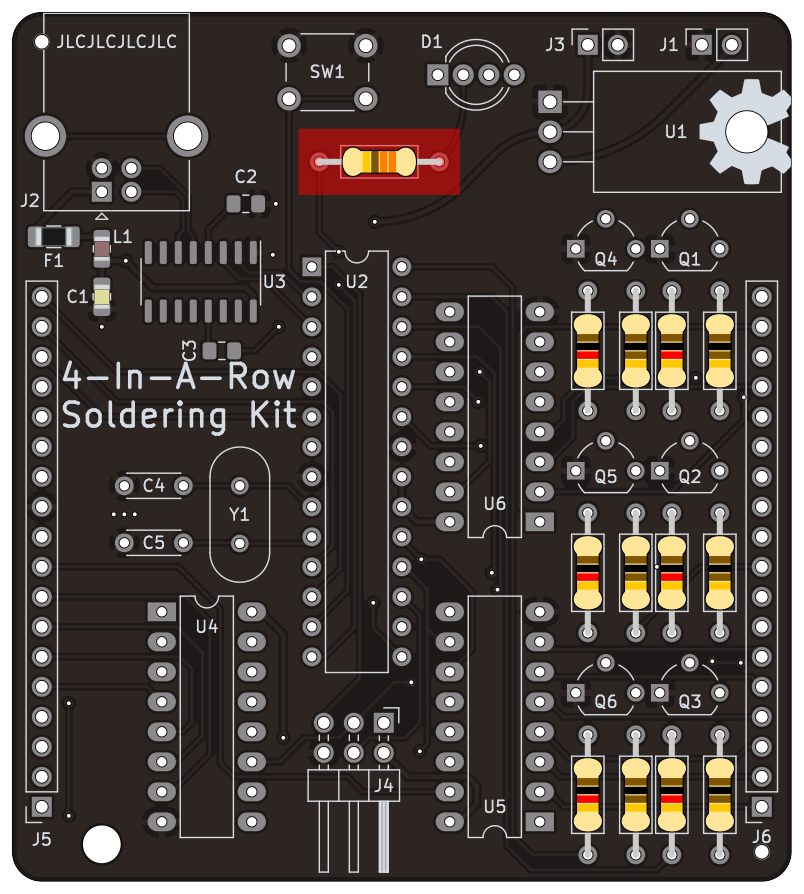
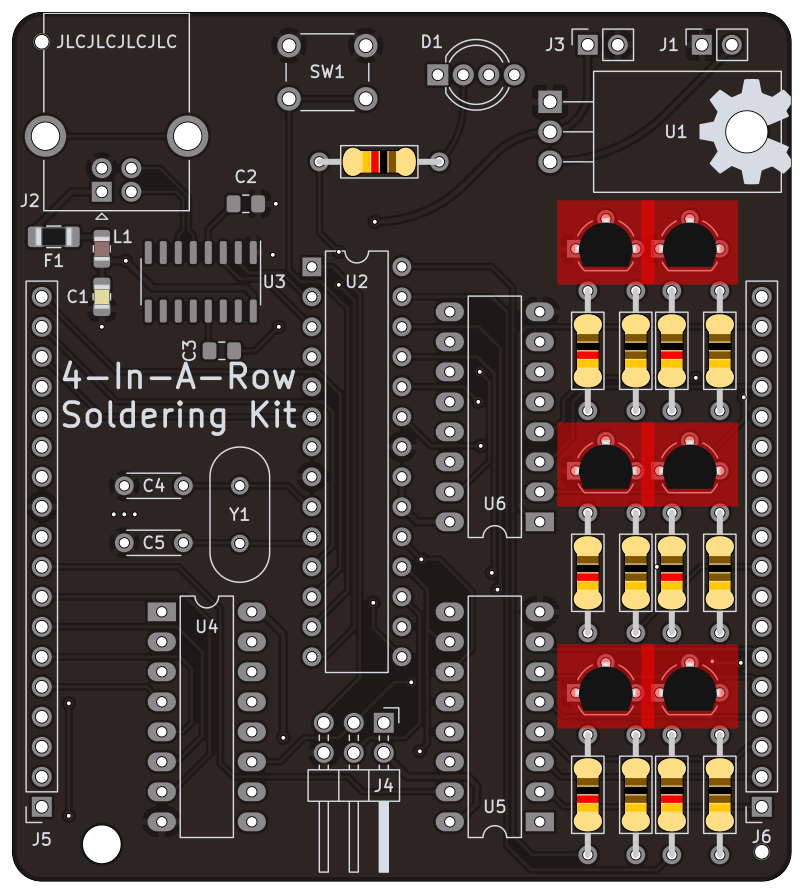
4-in-a-row update: - removed 330ohm step as that resistor is really a 1k - fixed USB instruction to highlight it - updated bom so the regulator's voltage is not conflicting (there was a 7-12v and 7-15v written in two spots)

diff --git a/kits/4_in_a_row/step_main.php b/kits/4_in_a_row/step_main.php
@@ -15,7 +15,7 @@
         <div class="content_md">
             <h1>Soldering Guide - Main Driver</h1>
             <p>This page guides you through soldering a 4-in-a-row kit's main board, step by step.</p>
-            <p>These steps are my recommendation, but feel free to deviate if a certain order is easier for you!</p>
+            <p>These steps are my recommendation, but feel free to deviate of a certain order is easier for you!</p>
         </div>
 
         <div id="step_step">
@@ -33,42 +33,38 @@
             </figure>
             <figure class="figure">
                 <img src="step_drawings/populating_4.png" class="figure-img img-fluid rounded">
-                <figcaption class="figure-caption"> Then we solder The top 330Ω resistor</figcaption>
-            </figure>
-            <figure class="figure">
-                <img src="step_drawings/populating_5.png" class="figure-img img-fluid rounded">
                 <figcaption class="figure-caption"> Then we populate all 2N3904 transistors</figcaption>
             </figure>
             <figure class="figure">
-                <img src="step_drawings/populating_6.png" class="figure-img img-fluid rounded">
+                <img src="step_drawings/populating_5.png" class="figure-img img-fluid rounded">
                 <figcaption class="figure-caption"> We populate the 12pF capacitors for the crystal</figcaption>
             </figure>
             <figure class="figure">
-                <img src="step_drawings/populating_7.png" class="figure-img img-fluid rounded">
+                <img src="step_drawings/populating_6.png" class="figure-img img-fluid rounded">
                 <figcaption class="figure-caption"> And then the crystal itself</figcaption>
             </figure>
             <figure class="figure">
-                <img src="step_drawings/populating_8.png" class="figure-img img-fluid rounded">
+                <img src="step_drawings/populating_7.png" class="figure-img img-fluid rounded">
                 <figcaption class="figure-caption"> Then we populate the ICs. In this drawing, the ICs are directly shown. THIS IS NOT RECOMMENDED. Instead, use the pin headers, and then push the component into them.</figcaption>
             </figure>
             <figure class="figure">
-                <img src="step_drawings/populating_9.png" class="figure-img img-fluid rounded">
+                <img src="step_drawings/populating_8.png" class="figure-img img-fluid rounded">
                 <figcaption class="figure-caption"> Then we populate the switch</figcaption>
             </figure>
             <figure class="figure">
-                <img src="step_drawings/populating_10.png" class="figure-img img-fluid rounded">
+                <img src="step_drawings/populating_9.png" class="figure-img img-fluid rounded">
                 <figcaption class="figure-caption"> And the main indicator diode</figcaption>
             </figure>
             <figure class="figure">
-                <img src="step_drawings/populating_11.png" class="figure-img img-fluid rounded">
+                <img src="step_drawings/populating_10.png" class="figure-img img-fluid rounded">
                 <figcaption class="figure-caption"> The USB connector</figcaption>
             </figure>
             <figure class="figure">
-                <img src="step_drawings/populating_12.png" class="figure-img img-fluid rounded">
+                <img src="step_drawings/populating_11.png" class="figure-img img-fluid rounded">
                 <figcaption class="figure-caption"> Then finally, the side pin sockets that will interconnect to the main board</figcaption>
             </figure>
             <figure class="figure">
-                <img src="step_drawings/populating_13.png" class="figure-img img-fluid rounded">
+                <img src="step_drawings/populating_12.png" class="figure-img img-fluid rounded">
                 <figcaption class="figure-caption"> OPTIONALLY, solder U1 if you intend to use an external 7-12v source (such as a 9v battery)</figcaption>
             </figure>
         </div>
